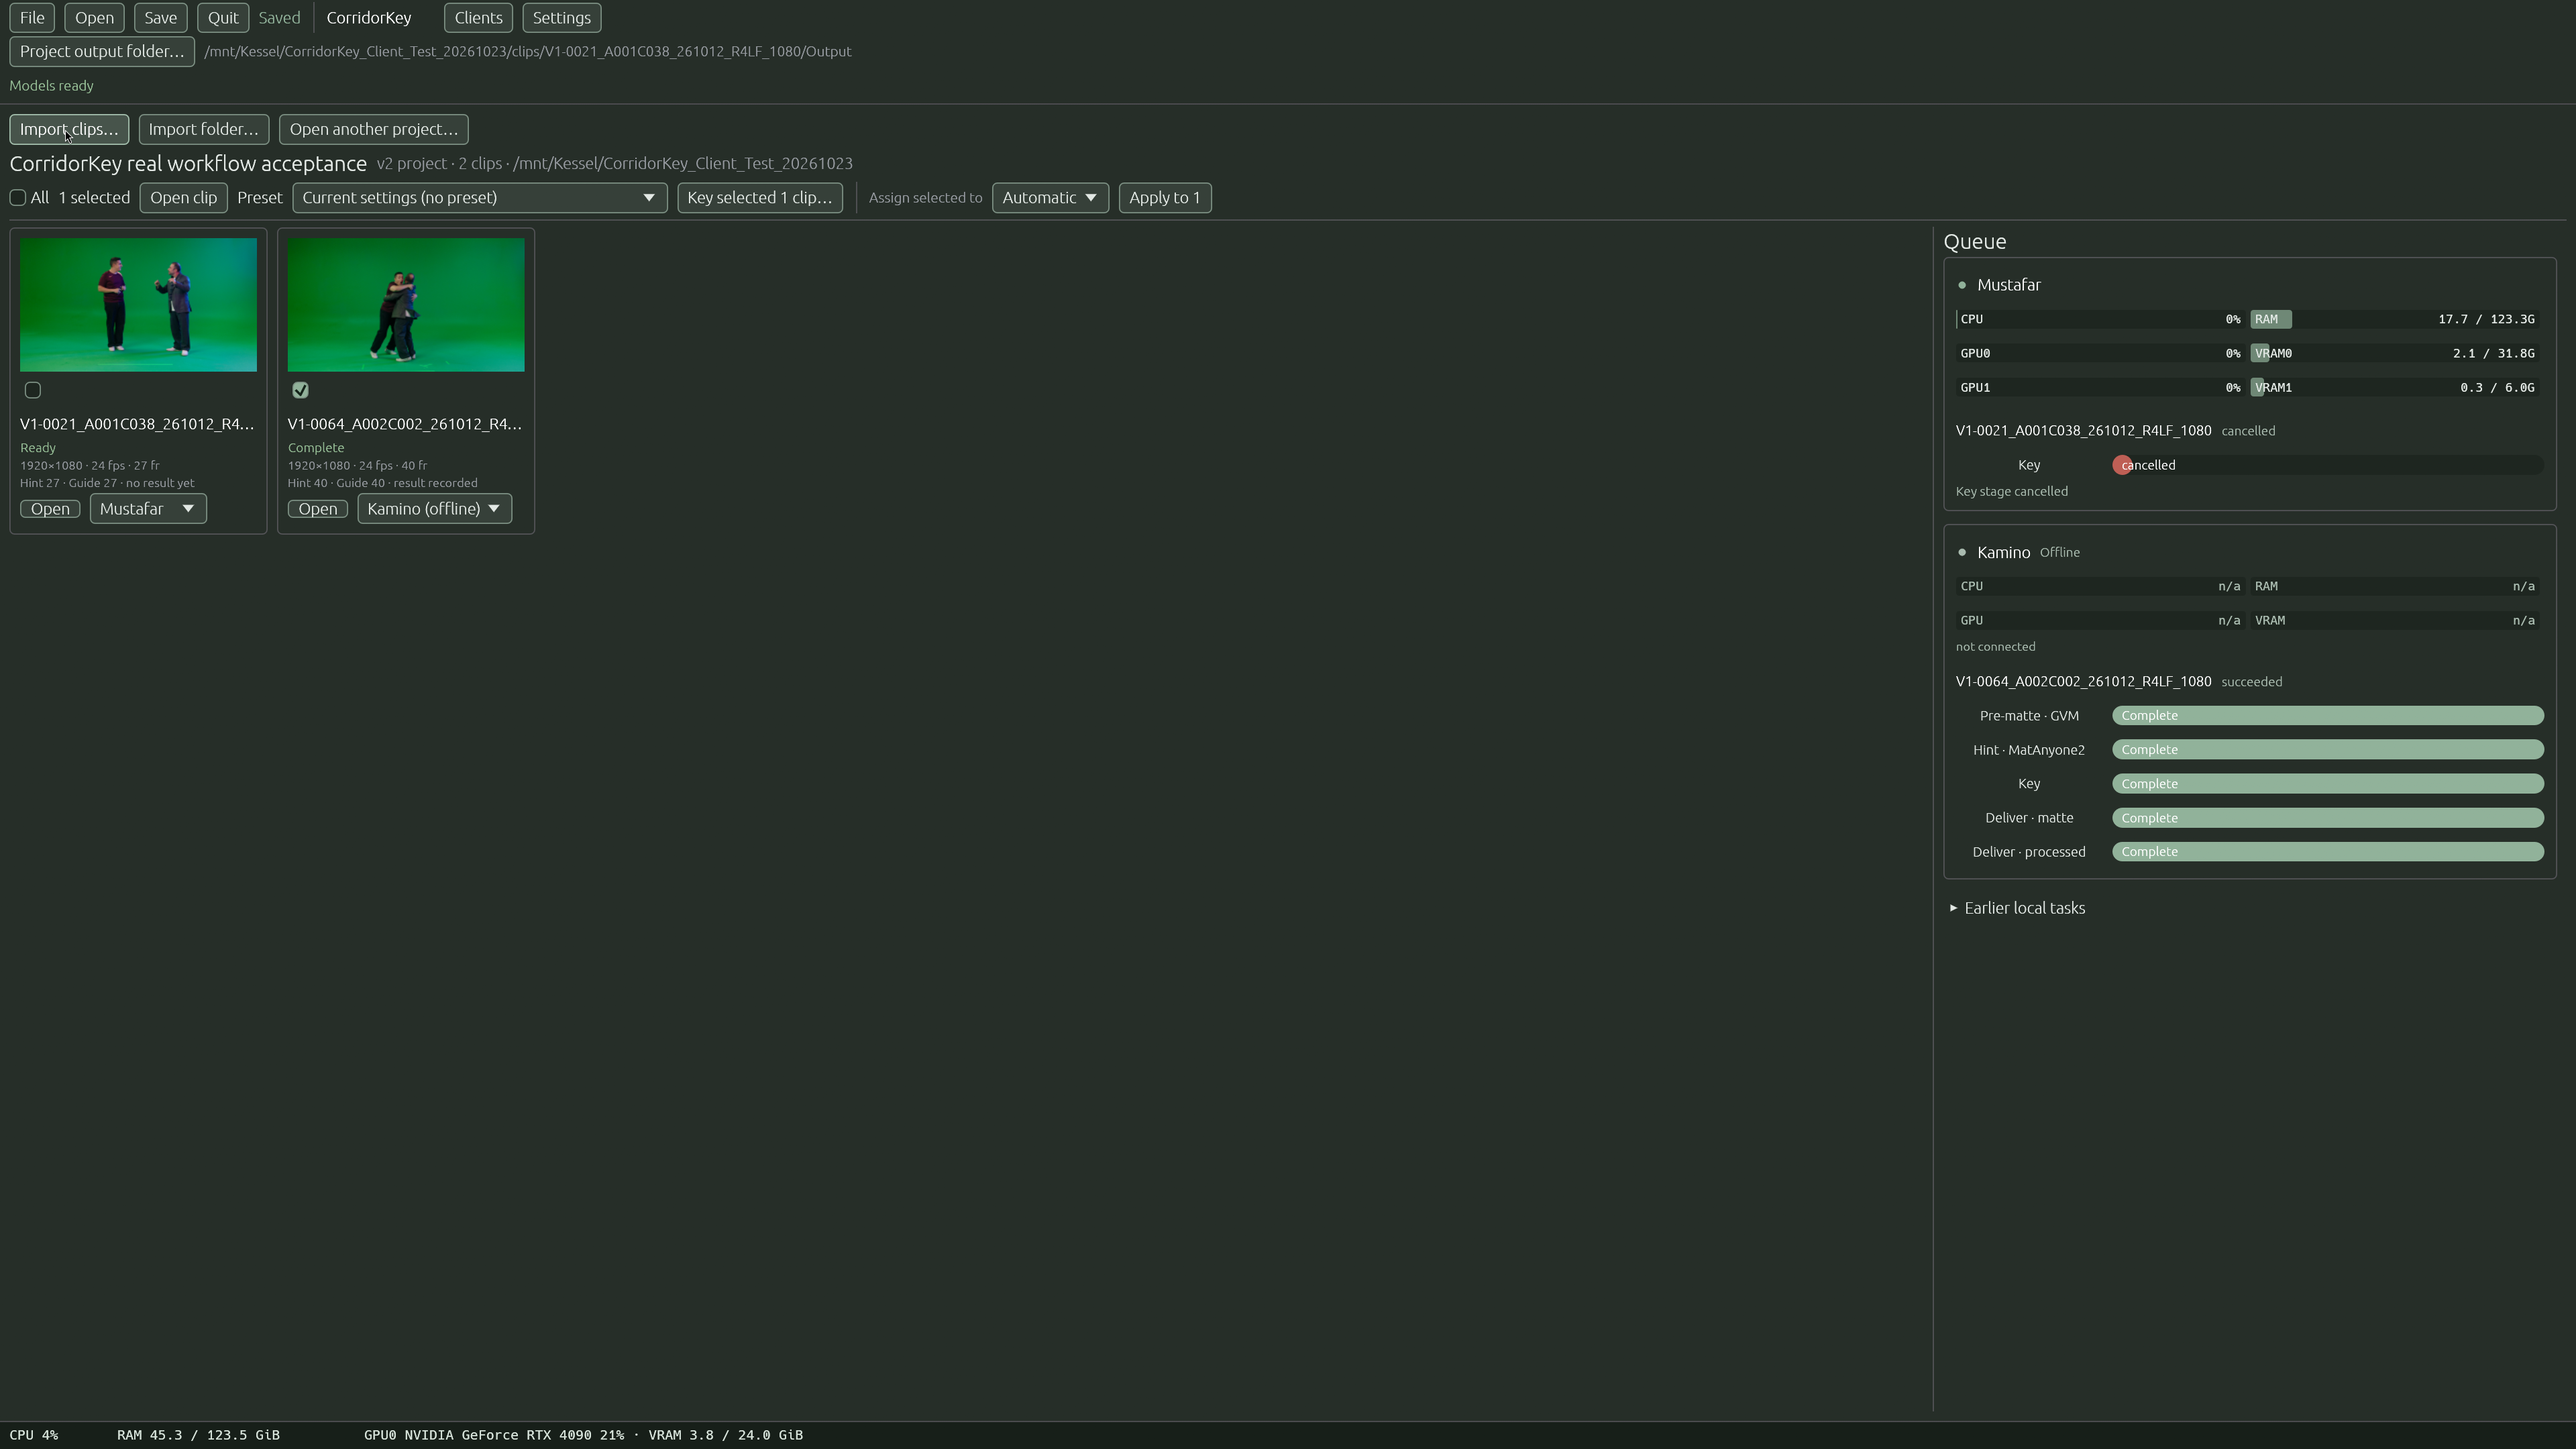
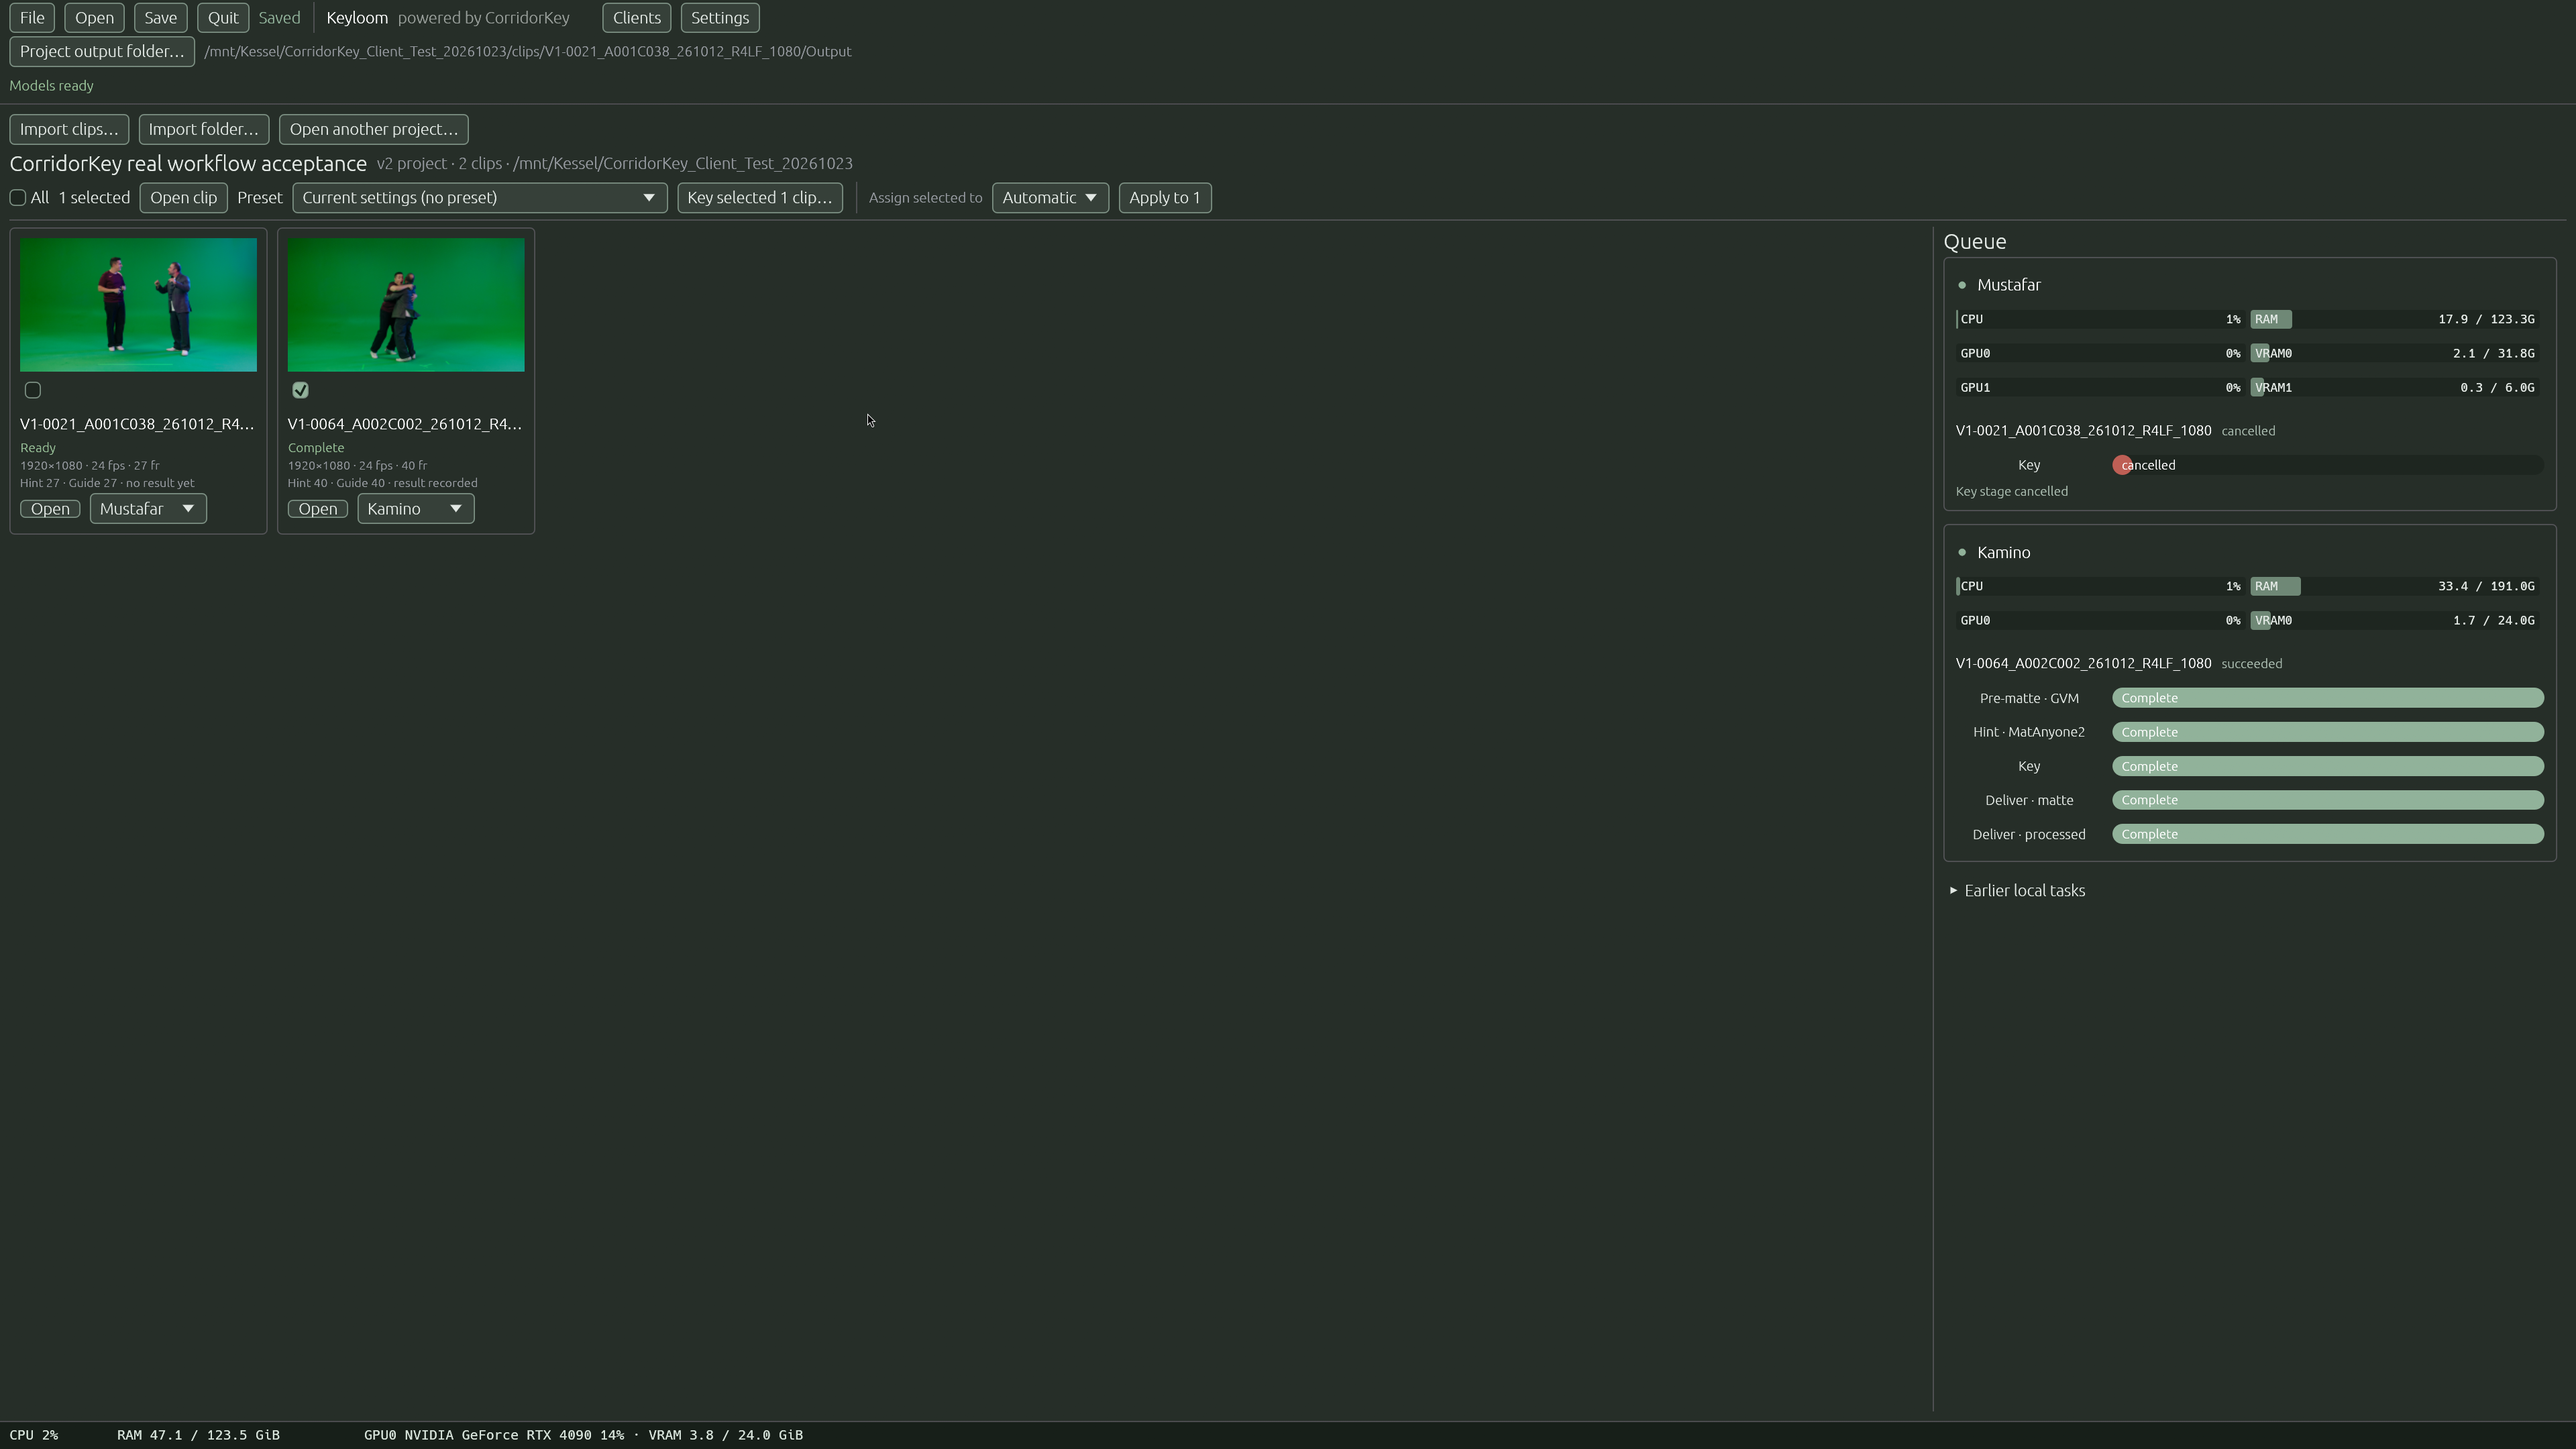
Show preserved multi-PC Batch stages in the workflow guide

Changed region(s): [[0.75, 0.4653, 1.0, 0.6204], [0.125, 0.0, 0.2812, 0.031], [0.875, 0.4032, 0.9062, 0.4343]]

diff --git a/docs/user-guide.md b/docs/user-guide.md
@@ -53,6 +53,8 @@ Opening a project shows the batch board; import may open the new clip directly. 
 
 ![Batch board](screenshots/native/04-batch.png)
 
+The captured queue shows results from earlier work; no render was submitted for this screenshot.
+
 - One card per clip, with thumbnail, name, range and a summary of what exists (frames, hint, results).
 - **All** and the per-clip checkboxes select clips; **N selected** shows the count.
 - **Open clip** opens the one selected clip (it needs frames).
